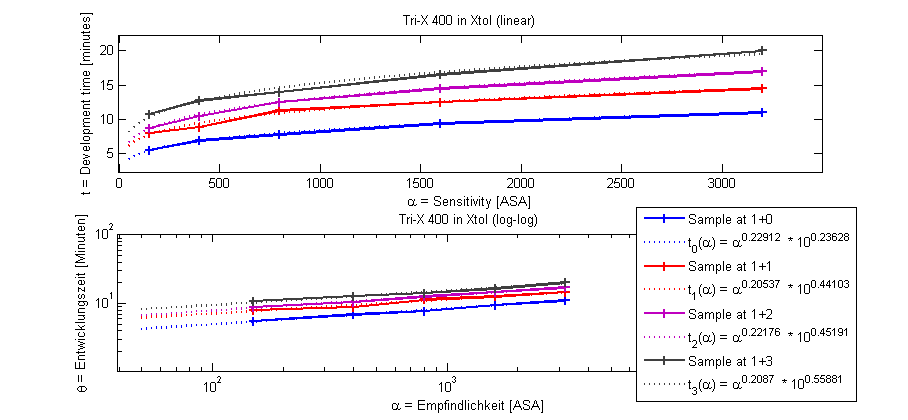
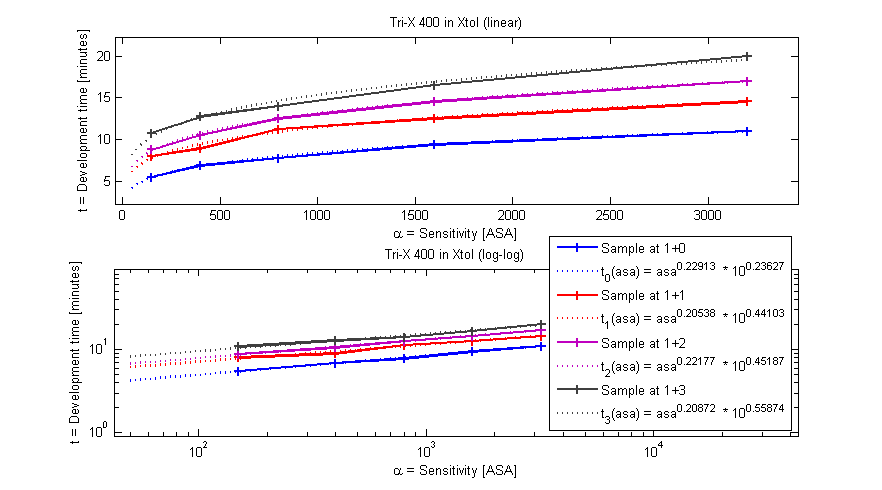
changed alpha to asa in plot as it might be misleading

Changed region(s): [[0.0612, 0.031, 0.949, 0.9905], [0.8878, 0.3405, 0.9184, 0.3714], [0.8878, 0.1857, 0.9184, 0.2167]]

diff --git a/plot_and_estimate.m b/plot_and_estimate.m
@@ -164,7 +164,7 @@ function [results, meanalpha, developers] = plot_and_estimate(filmname, data)
 
             % Create legend entry for the regression
             %regression_label = sprintf('t_{\theta=%d}(\alpha) = \alpha^{%f} * 10^{%f}', dilution, m, b);
-            regression_label = ['t_{' num2str(dilution) '}(\alpha) = \alpha^{' num2str(m) ' } * 10^{' num2str(b) '}'];
+            regression_label = ['t_{' num2str(dilution) '}(asa) = asa^{' num2str(m) ' } * 10^{' num2str(b) '}'];
 
             if ~figure_created
 
